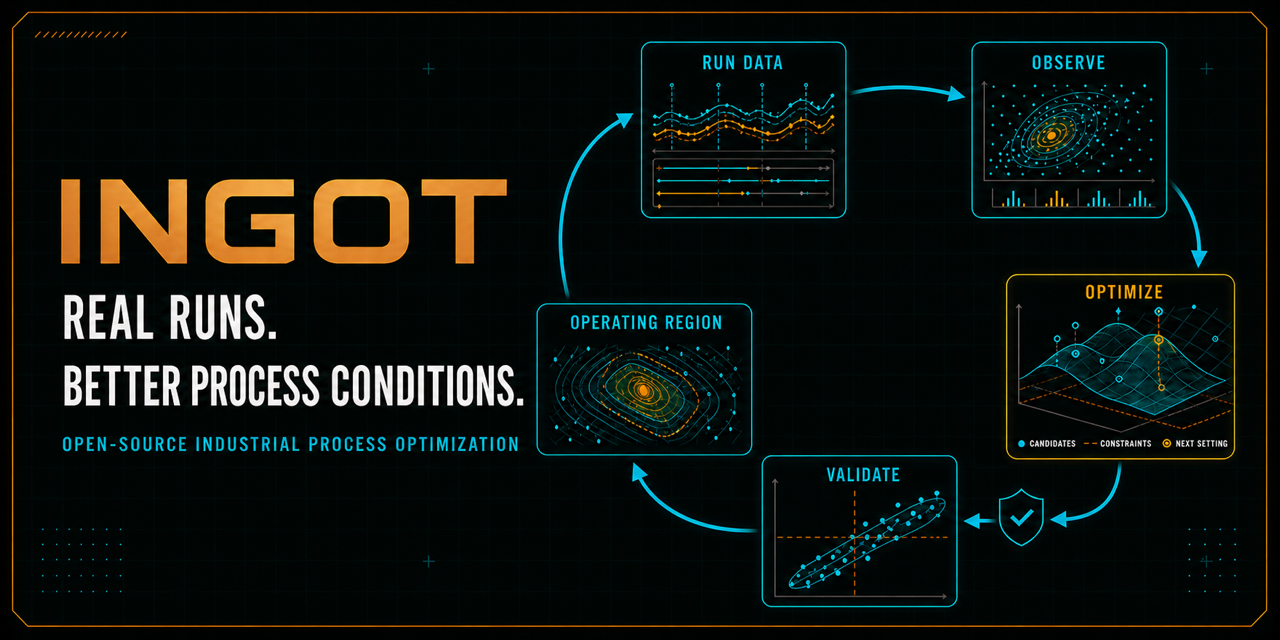
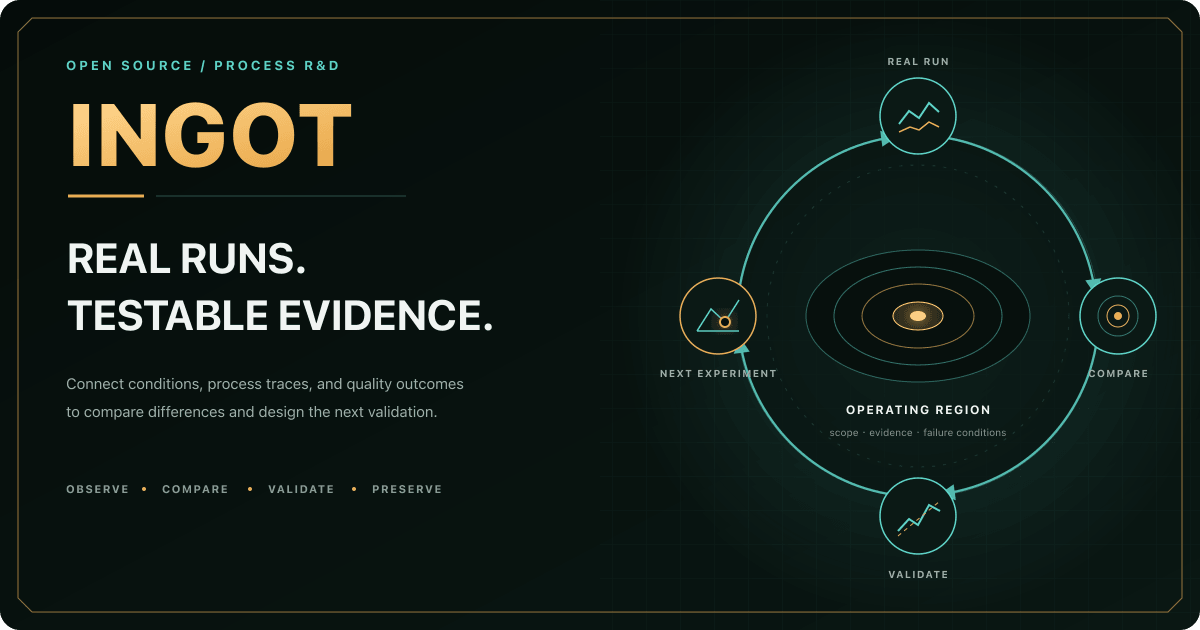
docs: refine homepage visuals

diff --git a/apps/website/app/(zh)/layout.tsx b/apps/website/app/(zh)/layout.tsx
@@ -32,13 +32,13 @@ export const metadata: Metadata = {
     type: "website",
     locale: "zh_CN",
     siteName: "Ingot",
-    images: [{ url: "/og.png", width: 1733, height: 908, alt: "Ingot — 少做无效实验，更快找到达标工艺。" }],
+    images: [{ url: "/og.zh.png", width: 1200, height: 630, alt: "Ingot — 让真实运行成为可验证的工艺证据。" }],
   },
   twitter: {
     card: "summary_large_image",
     title: "Ingot — 开源工艺追因与优化系统",
     description: "让真实运行证据支持工艺比较、原因验证和下一步实验。",
-    images: ["/og.png"],
+    images: ["/og.zh.png"],
   },
 };
 

diff --git a/apps/website/app/en/layout.tsx b/apps/website/app/en/layout.tsx
@@ -33,7 +33,7 @@ export const metadata: Metadata = {
     alternateLocale: ["zh_CN"],
     siteName: "Ingot",
     type: "website",
-    images: [{ url: "/og.png", width: 1733, height: 908, alt: "Ingot — Fewer wasted experiments, faster routes to target conditions." }],
+    images: [{ url: "/og.png", width: 1200, height: 630, alt: "Ingot — Turn real runs into testable process evidence." }],
   },
   twitter: {
     card: "summary_large_image",

diff --git a/README.en.md b/README.en.md
@@ -17,7 +17,7 @@
   [简体中文](README.md) · English
 </div>
 
-![Ingot: from real runs to process optimization and validation](apps/website/public/og.png)
+![Ingot: from real runs to process optimization and validation](apps/website/public/og-readme.en.svg)
 
 ## What Ingot is
 
@@ -140,18 +140,7 @@ See [Optimizer experiment-efficiency validation](tools/public-validation/README.
 
 ## Architecture
 
-```mermaid
-flowchart LR
-    Sources["Controls / instruments / vision / inspection / MES"] --> Edge["Edge ConnectorHost\nmapping · execution boundaries · buffering"]
-    Edge --> Platform["Platform API\nruns · context · inspection · R&D · evidence"]
-    Platform --> Web["Platform Web\nengineering workbench"]
-    Platform --> Optimizer["Optimizer\nDOE · response surfaces · GP/BO · parameter proposals"]
-    Platform --> Agent["Agent\nquery · organize · explain"]
-    Engineer["Process engineer"] --> Web
-    Web --> Platform
-    Optimizer --> Platform
-    Agent --> Platform
-```
+![Ingot system architecture: boundaries between field systems, Edge, Platform, Optimizer, Agent, and process engineers](apps/website/public/architecture.en.svg)
 
 Platform is the factory system of record. Optimizer is a stateless numerical service. Agent can access structured facts only through authorized tools. Edge and Platform keep independent processes, storage, and recovery even when deployed on one physical host.
 

diff --git a/README.md b/README.md
@@ -17,7 +17,7 @@
   简体中文 · [English](README.en.md)
 </div>
 
-![Ingot：从真实运行到工艺优化与验证](apps/website/public/og.png)
+![Ingot：从真实运行到工艺优化与验证](apps/website/public/og-readme.zh.svg)
 
 ## Ingot 是什么
 
@@ -140,18 +140,7 @@ Ingot 不把某一种“先进算法”固定成所有问题的答案：
 
 ## 系统架构
 
-```mermaid
-flowchart LR
-    Sources["控制系统 / 仪器 / 视觉 / 检验 / MES"] --> Edge["Edge ConnectorHost\n映射 · 执行边界 · 缓存"]
-    Edge --> Platform["Platform API\n运行 · 上下文 · 检验 · 研发 · 证据"]
-    Platform --> Web["Platform Web\n工程师工作台"]
-    Platform --> Optimizer["Optimizer\nDOE · 响应面 · GP/BO · 参数建议"]
-    Platform --> Agent["Agent\n查询 · 组织 · 解释"]
-    Engineer["工艺工程师"] --> Web
-    Web --> Platform
-    Optimizer --> Platform
-    Agent --> Platform
-```
+![Ingot 系统架构：现场系统、Edge、Platform、Optimizer、Agent 与工程师之间的边界](apps/website/public/architecture.zh.svg)
 
 Platform 是厂内业务记录源；Optimizer 是无状态数值服务；Agent 只能使用授权工具访问结构化事实。Edge 与 Platform 即使部署在同一台机器，也保持独立进程、存储和故障恢复。
 
